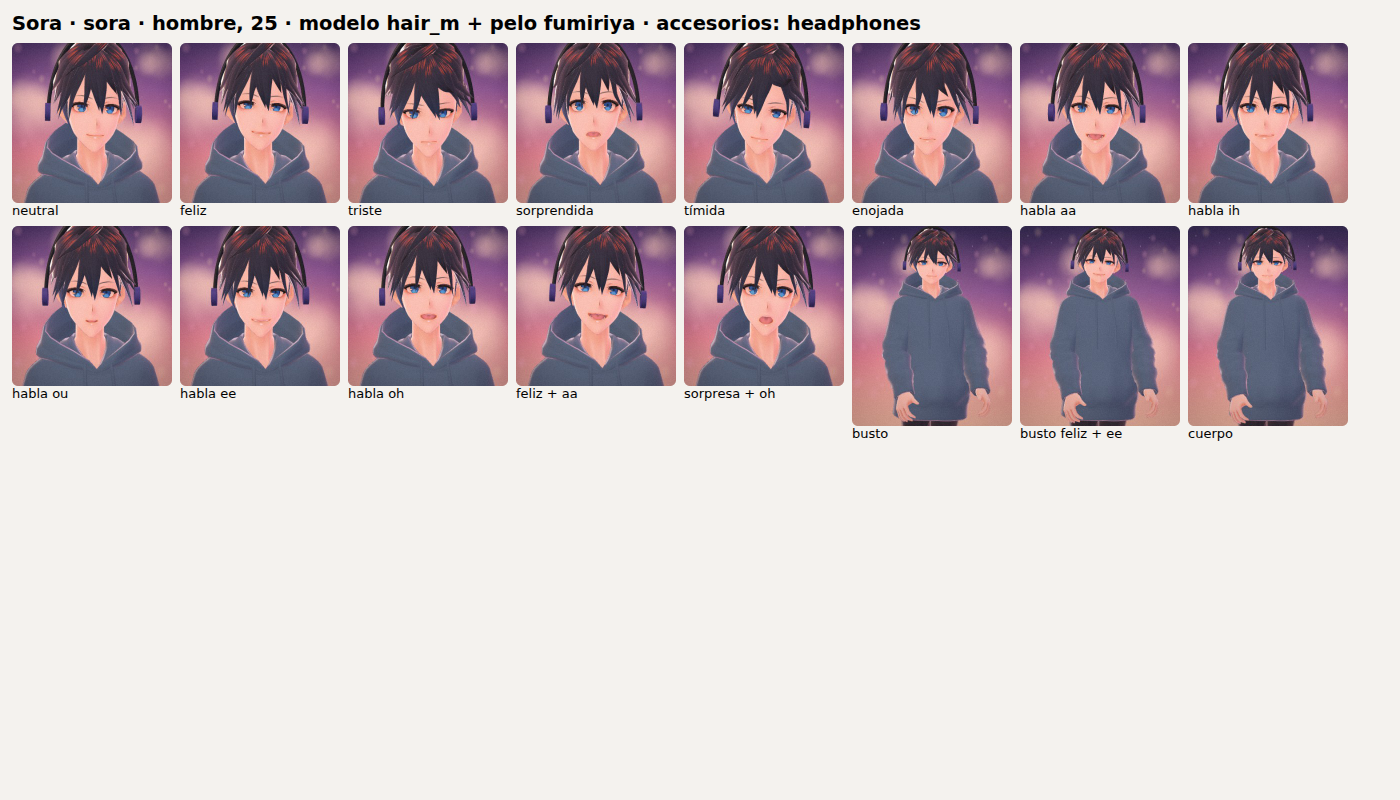
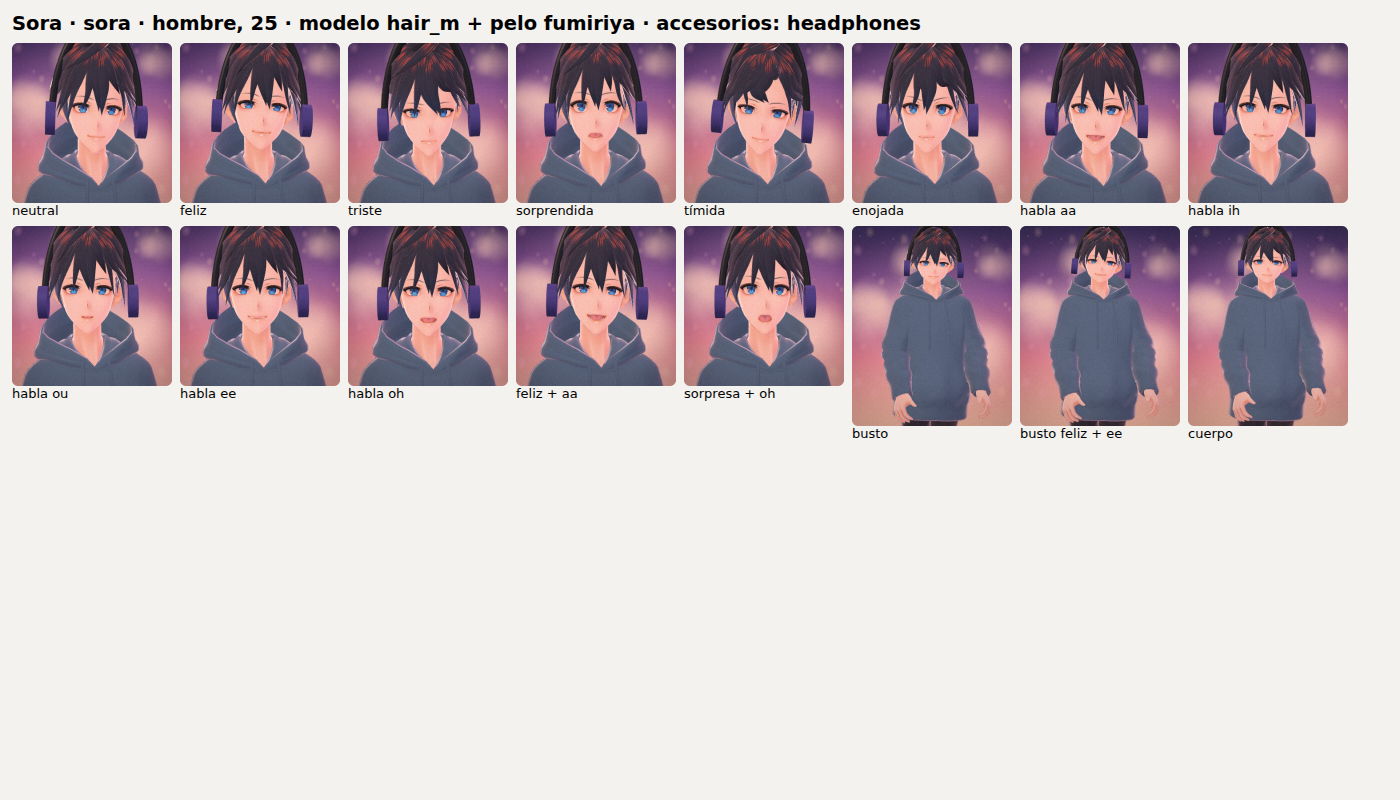
WP-5: engine fixes from the first visual review
- Eye metrics from iris geometry (glasses fit on VRM 1 bodies too); glasses
  drawn last so semi-transparent bangs never cover them; slightly smaller.
- Borrowed hairstyles scaled 4% so they cover forehead and crown.
- Headphone cups sit over the ears (face width), not at hair width.
- Resting smile/smug/shy rebuilt on a closed-mouth smile.
- Diagnostics: window.__lovel.orders() lists draw order per mesh.

Claude-Session: https://claude.ai/code/session_0188cjAJLeq8GTW6oDs1W4kc

diff --git a/avatar-stage/stage.html b/avatar-stage/stage.html
@@ -605,6 +605,7 @@ function faceWidth(vrm) {
  * donante sigue a los huesos de este personaje (copiamos la pose cada fotograma)
  * y conserva su propia física.
  */
+const HAIR_FIT = 1.04;
 function attachHair(target, donor) {
   donor.scene.traverse((o) => { if (o.isMesh) o.visible = isHairMesh(o); });
   target.scene.traverse((o) => { if (o.isMesh && isHairMesh(o)) o.visible = false; });
@@ -617,7 +618,9 @@ function attachHair(target, donor) {
   }
   const tw = faceWidth(target), dw = faceWidth(donor);
   const ratio = tw && dw ? tw / dw : 1;
-  current.headScale = ratio > 0.86 && ratio < 1.16 ? ratio : 1;
+  // un pelo prestado queda unos milímetros más atrás que el propio: un 4 % más grande cubre la
+  // frente (sin cejas por delante del flequillo) y no deja huecos en la coronilla (QA, WP-5)
+  current.headScale = (ratio > 0.86 && ratio < 1.16 ? ratio : 1) * HAIR_FIT;
   current.hairPairs = pairs;
 }
 
@@ -683,6 +686,26 @@ function headMetrics(vrm) {
     le.getWorldPosition(a); re.getWorldPosition(b);
     eyes.copy(a).add(b).multiplyScalar(0.5); eyeDist = a.distanceTo(b);
   } else eyes.set(hp.x, hp.y + 0.06, hp.z + 0.08);
+  // Los huesos de los ojos no siempre están donde se ven los ojos (p. ej. en algunos VRM 1):
+  // el centro y la separación reales salen de la geometría de los iris.
+  const irisBox = new THREE.Box3();
+  vrm.scene.traverse((o) => {
+    if (!o.isMesh) return;
+    const mats = Array.isArray(o.material) ? o.material : [o.material];
+    if (!mats.some((m) => category(m.name) === 'iris')) return;
+    const pos = o.geometry.attributes.position; if (!pos) return;
+    o.updateWorldMatrix(true, false);
+    const v = new THREE.Vector3();
+    const stepN = Math.max(1, Math.floor(pos.count / 800));
+    for (let i = 0; i < pos.count; i += stepN) { v.fromBufferAttribute(pos, i); if (o.isSkinnedMesh) o.applyBoneTransform(i, v); v.applyMatrix4(o.matrixWorld); irisBox.expandByPoint(v); }
+  });
+  if (!irisBox.isEmpty()) {
+    const w = irisBox.max.x - irisBox.min.x;
+    if (w > 0.03 && w < 0.2) {
+      eyes.set((irisBox.min.x + irisBox.max.x) / 2, (irisBox.min.y + irisBox.max.y) / 2, Math.max(eyes.z, irisBox.max.z));
+      eyeDist = w * 0.68;
+    }
+  }
   const faceBox = new THREE.Box3();
   vrm.scene.traverse((o) => {
     if (!o.isMesh) return;
@@ -761,8 +784,10 @@ function hornGeometry(r, h, bend) {
 function overHair(obj) {
   obj.traverse((o) => {
     if (!o.isMesh) return;
-    o.renderOrder = 20;
+    // pase transparente y al final: el pelo semitransparente se dibuja antes y no tapa la montura
+    o.renderOrder = 1000;
     o.material = o.material.clone();
+    o.material.transparent = true;
     o.material.depthTest = false;
     o.material.depthWrite = false;
   });
@@ -789,7 +814,7 @@ function buildAccessories(look) {
   // --- ojos
   if (has('glasses_round') || has('glasses_square') || has('sunglasses')) {
     const gl = new THREE.Group();
-    const r = e * 0.52;
+    const r = e * 0.46;
     const round = has('glasses_round');
     const sun = has('sunglasses');
     const frame = mat(sun ? '#141218' : '#2b2733', 0.6, 0.3);
@@ -919,7 +944,8 @@ function buildAccessories(look) {
   }
   // --- orejas
   if (has('headphones')) {
-    const r = Math.max(halfW * 1.18, hairHalfW * 0.98);
+    // las copas van sobre las orejas (ancho de la cara), no al ancho del pelo: si no, flotan
+    const r = halfW * 1.12;
     const band = new THREE.Mesh(new THREE.TorusGeometry(r, e * 0.13, 10, 48, Math.PI), mat(0x2f2b38, 0.4));
     band.scale.set(1, (hairTop + e * 0.12 - (eyes.y - e * 0.3)) / r, 1);
     put(band, W(0, eyes.y - e * 0.3, eyes.z - e * 0.5));
@@ -1101,12 +1127,12 @@ const ex = { happy: 0, angry: 0, sad: 0, relaxed: 0, surprised: 0, blink: 0 };
 /** Expresión base (valores de las expresiones estándar de VRM). */
 const EXPRESSIONS = {
   neutral: {},
-  smile: { happy: 0.28 },
+  smile: { relaxed: 0.35, happy: 0.08 }, // boca cerrada: el happy de VRoid separa los labios
   joy: { relaxed: 0.55, happy: 0.3 },
   calm: { relaxed: 0.45 },
   serious: { angry: 0.3 },
-  shy: { happy: 0.2, sad: 0.2 },
-  smug: { happy: 0.24, angry: 0.24 },
+  shy: { relaxed: 0.25, sad: 0.18 },
+  smug: { relaxed: 0.22, angry: 0.1 },
   sad: { sad: 0.4 },
   surprised: { surprised: 0.38 },
   angry: { angry: 0.5 },
@@ -1415,6 +1441,8 @@ document.addEventListener('message', onMessage);
 window.__lovel = {
   handle,
   perf: () => ({ ...perf, mobile: MOBILE }),
+  // diagnóstico (QA): orden de dibujo de cada malla visible
+  orders: () => { const out = []; for (const r of [current.vrm?.scene, current.hairVrm?.scene].filter(Boolean)) r.traverse((o) => { if (o.isMesh && o.visible) for (const m of [].concat(o.material)) out.push([r === current.vrm.scene ? 'body' : 'hair', m.name, o.renderOrder, m.transparent, m.depthWrite, m.depthTest]); }); return out; },
   morphs: () => { const out = {}; current.vrm?.scene.traverse((o) => { if (o.morphTargetInfluences && o.morphTargetDictionary) { const d = o.morphTargetDictionary; for (const k in d) { const v = o.morphTargetInfluences[d[k]]; if (v > 0.01) out[o.name + ':' + k] = +v.toFixed(2); } } }); return out; },
   debug: () => { const em = current.vrm?.expressionManager; return em ? Object.fromEntries(em.expressions.map((x) => [x.expressionName, +em.getValue(x.expressionName)?.toFixed?.(2)])) : null; },
 };

diff --git a/src/lib/avatarStageHtml.ts b/src/lib/avatarStageHtml.ts
@@ -606,6 +606,7 @@ function faceWidth(vrm) {
  * donante sigue a los huesos de este personaje (copiamos la pose cada fotograma)
  * y conserva su propia física.
  */
+const HAIR_FIT = 1.04;
 function attachHair(target, donor) {
   donor.scene.traverse((o) => { if (o.isMesh) o.visible = isHairMesh(o); });
   target.scene.traverse((o) => { if (o.isMesh && isHairMesh(o)) o.visible = false; });
@@ -618,7 +619,9 @@ function attachHair(target, donor) {
   }
   const tw = faceWidth(target), dw = faceWidth(donor);
   const ratio = tw && dw ? tw / dw : 1;
-  current.headScale = ratio > 0.86 && ratio < 1.16 ? ratio : 1;
+  // un pelo prestado queda unos milímetros más atrás que el propio: un 4 % más grande cubre la
+  // frente (sin cejas por delante del flequillo) y no deja huecos en la coronilla (QA, WP-5)
+  current.headScale = (ratio > 0.86 && ratio < 1.16 ? ratio : 1) * HAIR_FIT;
   current.hairPairs = pairs;
 }
 
@@ -684,6 +687,26 @@ function headMetrics(vrm) {
     le.getWorldPosition(a); re.getWorldPosition(b);
     eyes.copy(a).add(b).multiplyScalar(0.5); eyeDist = a.distanceTo(b);
   } else eyes.set(hp.x, hp.y + 0.06, hp.z + 0.08);
+  // Los huesos de los ojos no siempre están donde se ven los ojos (p. ej. en algunos VRM 1):
+  // el centro y la separación reales salen de la geometría de los iris.
+  const irisBox = new THREE.Box3();
+  vrm.scene.traverse((o) => {
+    if (!o.isMesh) return;
+    const mats = Array.isArray(o.material) ? o.material : [o.material];
+    if (!mats.some((m) => category(m.name) === 'iris')) return;
+    const pos = o.geometry.attributes.position; if (!pos) return;
+    o.updateWorldMatrix(true, false);
+    const v = new THREE.Vector3();
+    const stepN = Math.max(1, Math.floor(pos.count / 800));
+    for (let i = 0; i < pos.count; i += stepN) { v.fromBufferAttribute(pos, i); if (o.isSkinnedMesh) o.applyBoneTransform(i, v); v.applyMatrix4(o.matrixWorld); irisBox.expandByPoint(v); }
+  });
+  if (!irisBox.isEmpty()) {
+    const w = irisBox.max.x - irisBox.min.x;
+    if (w > 0.03 && w < 0.2) {
+      eyes.set((irisBox.min.x + irisBox.max.x) / 2, (irisBox.min.y + irisBox.max.y) / 2, Math.max(eyes.z, irisBox.max.z));
+      eyeDist = w * 0.68;
+    }
+  }
   const faceBox = new THREE.Box3();
   vrm.scene.traverse((o) => {
     if (!o.isMesh) return;
@@ -762,8 +785,10 @@ function hornGeometry(r, h, bend) {
 function overHair(obj) {
   obj.traverse((o) => {
     if (!o.isMesh) return;
-    o.renderOrder = 20;
+    // pase transparente y al final: el pelo semitransparente se dibuja antes y no tapa la montura
+    o.renderOrder = 1000;
     o.material = o.material.clone();
+    o.material.transparent = true;
     o.material.depthTest = false;
     o.material.depthWrite = false;
   });
@@ -790,7 +815,7 @@ function buildAccessories(look) {
   // --- ojos
   if (has('glasses_round') || has('glasses_square') || has('sunglasses')) {
     const gl = new THREE.Group();
-    const r = e * 0.52;
+    const r = e * 0.46;
     const round = has('glasses_round');
     const sun = has('sunglasses');
     const frame = mat(sun ? '#141218' : '#2b2733', 0.6, 0.3);
@@ -920,7 +945,8 @@ function buildAccessories(look) {
   }
   // --- orejas
   if (has('headphones')) {
-    const r = Math.max(halfW * 1.18, hairHalfW * 0.98);
+    // las copas van sobre las orejas (ancho de la cara), no al ancho del pelo: si no, flotan
+    const r = halfW * 1.12;
     const band = new THREE.Mesh(new THREE.TorusGeometry(r, e * 0.13, 10, 48, Math.PI), mat(0x2f2b38, 0.4));
     band.scale.set(1, (hairTop + e * 0.12 - (eyes.y - e * 0.3)) / r, 1);
     put(band, W(0, eyes.y - e * 0.3, eyes.z - e * 0.5));
@@ -1102,12 +1128,12 @@ const ex = { happy: 0, angry: 0, sad: 0, relaxed: 0, surprised: 0, blink: 0 };
 /** Expresión base (valores de las expresiones estándar de VRM). */
 const EXPRESSIONS = {
   neutral: {},
-  smile: { happy: 0.28 },
+  smile: { relaxed: 0.35, happy: 0.08 }, // boca cerrada: el happy de VRoid separa los labios
   joy: { relaxed: 0.55, happy: 0.3 },
   calm: { relaxed: 0.45 },
   serious: { angry: 0.3 },
-  shy: { happy: 0.2, sad: 0.2 },
-  smug: { happy: 0.24, angry: 0.24 },
+  shy: { relaxed: 0.25, sad: 0.18 },
+  smug: { relaxed: 0.22, angry: 0.1 },
   sad: { sad: 0.4 },
   surprised: { surprised: 0.38 },
   angry: { angry: 0.5 },
@@ -1416,6 +1442,8 @@ document.addEventListener('message', onMessage);
 window.__lovel = {
   handle,
   perf: () => ({ ...perf, mobile: MOBILE }),
+  // diagnóstico (QA): orden de dibujo de cada malla visible
+  orders: () => { const out = []; for (const r of [current.vrm?.scene, current.hairVrm?.scene].filter(Boolean)) r.traverse((o) => { if (o.isMesh && o.visible) for (const m of [].concat(o.material)) out.push([r === current.vrm.scene ? 'body' : 'hair', m.name, o.renderOrder, m.transparent, m.depthWrite, m.depthTest]); }); return out; },
   morphs: () => { const out = {}; current.vrm?.scene.traverse((o) => { if (o.morphTargetInfluences && o.morphTargetDictionary) { const d = o.morphTargetDictionary; for (const k in d) { const v = o.morphTargetInfluences[d[k]]; if (v > 0.01) out[o.name + ':' + k] = +v.toFixed(2); } } }); return out; },
   debug: () => { const em = current.vrm?.expressionManager; return em ? Object.fromEntries(em.expressions.map((x) => [x.expressionName, +em.getValue(x.expressionName)?.toFixed?.(2)])) : null; },
 };
